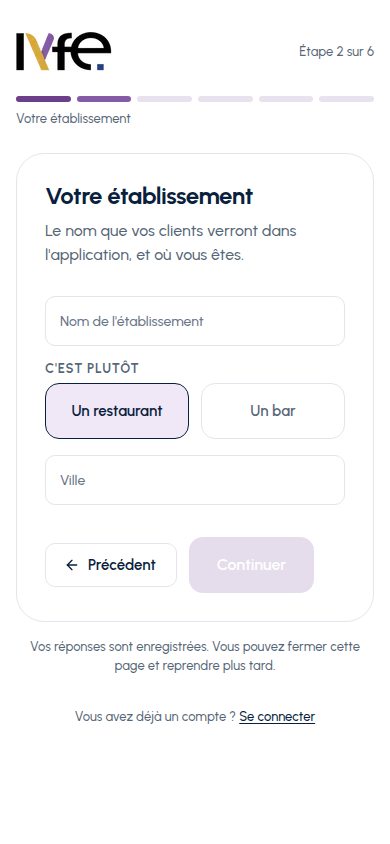
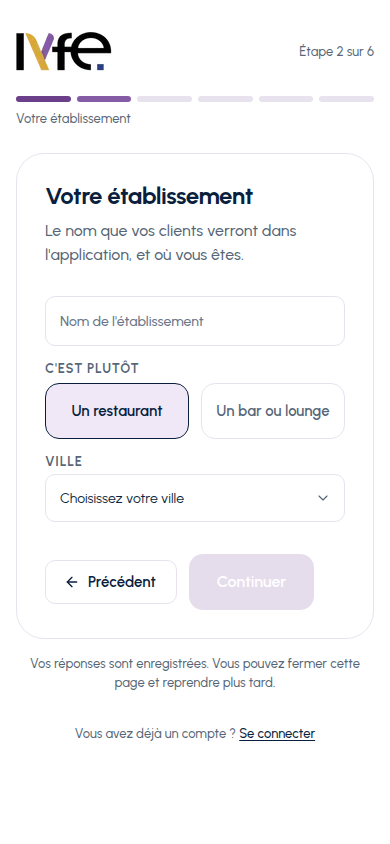
Ville becomes a list of five, and the second type is a bar or lounge
Two answers on step 2 were wrong in the same way: they let the partner
type or read a word that is not the one the app uses.

**Ville is a select.** A free-text city is five spellings of Marrakech
in the database by the end of the month — « marrakech », « Marrakesh »,
« MARAKECH » — and `city` is the string the app groups and searches
venues by. It is now `ONBOARDING_CITIES`: Casablanca, Marrakech, Rabat,
Tanger, Agadir, behind a « Choisissez votre ville » placeholder so the
partner picks rather than accepts whatever sorted first. On a phone it
is also one tap instead of a word typed on a stand.

The list is closed on both sides of the seam. `saveOnboardingStep`
refuses a city outside it — a select is a suggestion to anything that is
not the browser — and `tools/mock-api.mjs` answers
`400 { code: "city_unknown" }`, so the contract's constraint is a
response a backend can be tested against rather than a sentence. §2.0
states the five values and says the service must validate them too.
Opening a sixth city is one line of that constant and a deployment.

**« Un bar » becomes « Un bar ou lounge ».** The second half of the
sprint row is `Dashboard Drinks/Cellar partenaire`, and a rooftop whose
only other choice is « Un restaurant » was being asked to call itself a
bar. The stored value is still `bar` — this is the label — and the
summary on step 6 now reads « Bar ou lounge » with it, so the answer is
worded the way the question was. Both strings live in
[…]

diff --git a/src/app/inscription/InscriptionFlow.tsx b/src/app/inscription/InscriptionFlow.tsx
@@ -22,12 +22,16 @@ import { Brand } from "@/components/organizer/Brand";
 import { Button } from "@/components/ui/Button";
 import { Card } from "@/components/ui/Card";
 import { Input } from "@/components/ui/Input";
+import { Select } from "@/components/ui/Select";
 import { Switch } from "@/components/ui/Switch";
 import { TimeSelect } from "@/components/ui/TimeSelect";
 import { cn } from "@/lib/utils/cn";
 import {
+  ONBOARDING_CITIES,
   ONBOARDING_LAST_STEP,
   ONBOARDING_STEPS,
+  ONBOARDING_TYPE_CHOICE,
+  ONBOARDING_TYPE_LABEL,
   WEEKDAY_LABEL,
   defaultHours,
   type OnboardingDay,
@@ -260,8 +264,8 @@ export function InscriptionFlow({
                     <div className="grid grid-cols-2 gap-3">
                       {(
                         [
-                          { value: "restaurant", label: "Un restaurant" },
-                          { value: "bar", label: "Un bar" },
+                          { value: "restaurant", label: ONBOARDING_TYPE_CHOICE.restaurant },
+                          { value: "bar", label: ONBOARDING_TYPE_CHOICE.bar },
                         ] as const
                       ).map((option) => (
                         <button
@@ -280,11 +284,16 @@ export function InscriptionFlow({
                       ))}
                     </div>
                   </div>
-                  <Input
+                  {/* A list, not a field: see ONBOARDING_CITIES for why
+                      five names beat free text here. */}
+                  <Select
                     label="Ville"
                     value={city}
-                    onChange={(e) => setCity(e.target.value)}
-                    autoComplete="address-level2"
+                    onChange={setCity}
+                    options={[
+                      { value: "", label: "Choisissez votre ville" },
+                      ...ONBOARDING_CITIES.map((name) => ({ value: name, label: name })),
+                    ]}
                   />
                 </>
               ) : null}
@@ -622,7 +631,7 @@ function Summary({
   const openDays = useMemo(() => hours.filter((h) => !h.closed), [hours]);
   const rows = [
     { label: "Établissement", value: venueName || "—" },
-    { label: "Type", value: venueType === "bar" ? "Bar" : "Restaurant" },
+    { label: "Type", value: ONBOARDING_TYPE_LABEL[venueType] },
     { label: "Ville", value: city || "—" },
     { label: "Adresse", value: address || "—" },
     { label: "Photo", value: hasCover ? "Ajoutée" : "À ajouter plus tard" },

diff --git a/src/lib/types/onboarding.ts b/src/lib/types/onboarding.ts
@@ -68,6 +68,49 @@ export const ONBOARDING_STEPS = [
 export const ONBOARDING_LAST_STEP = 6;
 
 /**
+ * The cities LYFE opens in, and a closed list on purpose.
+ *
+ * A free-text city is five spellings of Marrakech in the database
+ * within a month — « marrakech », « Marrakesh », « MARAKECH » — and the
+ * app searches and groups by that string. Picking from five is also one
+ * tap rather than a word typed on a phone keyboard. A sixth city is one
+ * line here and a deployment, which is the right amount of ceremony
+ * for opening a market.
+ */
+export const ONBOARDING_CITIES = [
+  "Casablanca",
+  "Marrakech",
+  "Rabat",
+  "Tanger",
+  "Agadir",
+] as const;
+
+export type OnboardingCity = (typeof ONBOARDING_CITIES)[number];
+
+export function isOnboardingCity(value: string): value is OnboardingCity {
+  return (ONBOARDING_CITIES as readonly string[]).includes(value);
+}
+
+/**
+ * What the two types are called on the question, and in the summary.
+ *
+ * « Un bar ou lounge » rather than « Un bar »: the second half of the
+ * sprint row is `Dashboard Drinks/Cellar`, and a rooftop lounge whose
+ * only choice reads « Un bar » is being asked to accept a word for
+ * their place that is not theirs. The stored value is still `bar` —
+ * this is the label, not the enum.
+ */
+export const ONBOARDING_TYPE_CHOICE: Record<OnboardingVenueType, string> = {
+  restaurant: "Un restaurant",
+  bar: "Un bar ou lounge",
+};
+
+export const ONBOARDING_TYPE_LABEL: Record<OnboardingVenueType, string> = {
+  restaurant: "Restaurant",
+  bar: "Bar ou lounge",
+};
+
+/**
  * Mondays to Sundays open, lunch and dinner in one window.
  *
  * A grid that starts empty is a grid the partner has to fill seven

diff --git a/src/app/actions/onboarding.ts b/src/app/actions/onboarding.ts
@@ -21,7 +21,7 @@ import {
 import { storageDriver } from "@/lib/assets";
 import { describeAssetError, validateAsset } from "@/lib/assets/types";
 import type { OnboardingDraft } from "@/lib/types/onboarding";
-import { ONBOARDING_LAST_STEP } from "@/lib/types/onboarding";
+import { ONBOARDING_LAST_STEP, isOnboardingCity } from "@/lib/types/onboarding";
 import { PRESENCE_COOKIE, USER_COOKIE, VENUE_COOKIE } from "@/lib/auth/server-session";
 
 const DRAFT_COOKIE = "lyfe.inscription";
@@ -109,6 +109,16 @@ export async function saveOnboardingStep(
   const id = (await cookies()).get(DRAFT_COOKIE)?.value;
   if (!id) {
     return { ok: false, message: "Reprenez l'inscription depuis le début." };
+  }
+  // The city is a closed list on the screen, so it is a closed list
+  // here too: a select is a suggestion to anything that is not the
+  // browser, and this value is what the app groups venues by.
+  if (patch.city !== undefined && patch.city !== "" && !isOnboardingCity(patch.city)) {
+    return {
+      ok: false,
+      field: "city",
+      message: "Choisissez une ville dans la liste.",
+    };
   }
   try {
     const draft = await getRestaurantRepository().saveOnboardingDraft(id, patch);

diff --git a/docs/LOT1_API_CONTRACT.md b/docs/LOT1_API_CONTRACT.md
@@ -126,10 +126,23 @@ seule erreur de champ du parcours.
 
 `venueType` est le mot du partenaire — `restaurant` ou `bar` — et il est
 traduit en vocabulaire de l'application (`restaurant` / `drinks`) au
-moment où l'établissement est créé, pas avant. `step` est l'étape la
-plus avancée atteinte : c'est ce qui fait qu'un onglet fermé ne perd
-rien, et le portail rouvre le parcours là où il s'est arrêté plutôt
-qu'au début.
+moment où l'établissement est créé, pas avant. Le libellé à l'écran est
+« Un restaurant » et « Un bar ou lounge » : la seconde moitié de la
+ligne du sprint est `Dashboard Drinks/Cellar`, et un rooftop dont le
+seul choix se lit « Un bar » se voit imposer un mot qui n'est pas le
+sien. **La valeur stockée reste `bar`** — c'est le libellé qui change,
+pas l'énumération. `step` est l'étape la plus avancée atteinte : c'est
+ce qui fait qu'un onglet fermé ne perd rien, et le portail rouvre le
+parcours là où il s'est arrêté plutôt qu'au début.
+
+**`city` est une liste fermée de cinq valeurs** — `Casablanca`,
+`Marrakech`, `Rabat`, `Tanger`, `Agadir` — et le service doit la
+valider, pas seulement l'écran : une ville saisie librement, c'est cinq
+orthographes de Marrakech dans la base au bout d'un mois, et
+l'application cherche et regroupe sur cette chaîne. Une valeur hors
+liste se refuse en `400 { code: "city_unknown" }` ; c'est ce que fait
+`tools/mock-api.mjs`. Ouvrir une sixième ville est une ligne de
+constante (`ONBOARDING_CITIES`) et un déploiement.
 
 **L'appel 4 est « Création de Venue » elle-même**, et il doit être
 idempotent : un brouillon déjà soumis rend l'établissement qu'il a déjà
